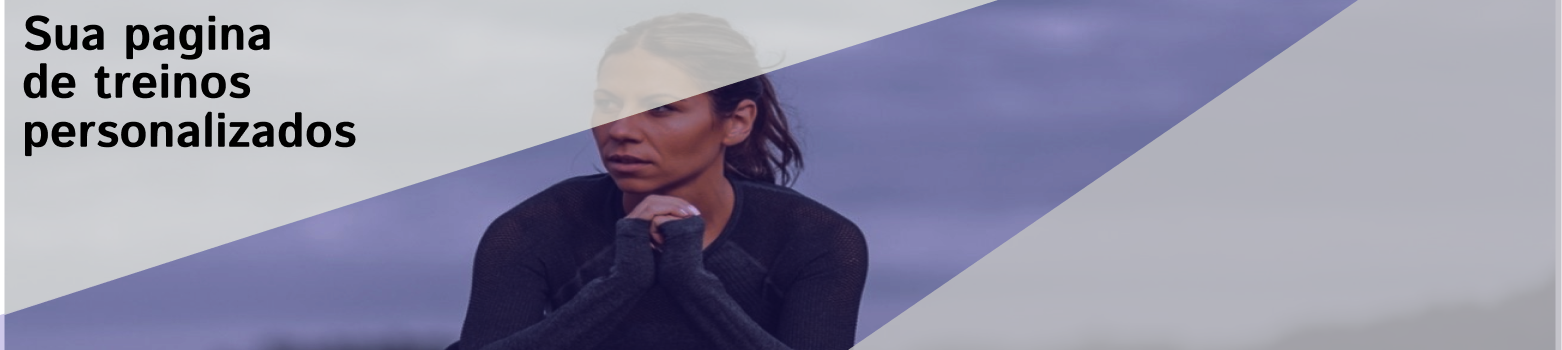
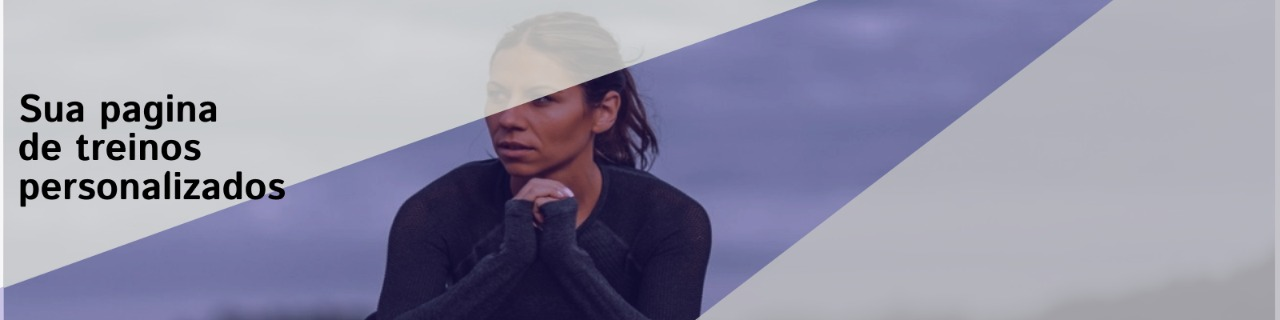
mudando visual da pagina de treinos e adicionando botao de favoritar treinos

Changed region(s): [[0.0, 0.0312, 0.25, 0.5], [0.0, 0.5312, 0.25, 0.6562]]

diff --git a/befit-app/src/components/CardExercicio/index.jsx b/befit-app/src/components/CardExercicio/index.jsx
@@ -2,9 +2,11 @@ import imagemTeste from '../../assets/images/exerciciosCover/exercioCardio.jpg'
 import style from './style.css'
 import { useState } from 'react';
 import { BrowserRouter as Router, Routes, Route, Link, NavLink, useNavigate } from 'react-router-dom'
+import likeButton from '../../assets/images/Icons/favoritoIcon.png'
+import likeButtonSelecionado from '../../assets/images/Icons/favoritoIconSelecionado.png'
+import transitions from '@material-ui/core/styles/transitions';
 
 function CardExercicio(props) {
-
     const imagem = {
         backgroundImage: `url(${props.imagem ? props.imagem : imagemTeste})`
     }
@@ -12,25 +14,50 @@ function CardExercicio(props) {
     const [nome, setNome] = useState(props.nome);
     const [descricao, setDescricao] = useState(props.descricao);
     const [criador, setAno] = useState(props.ano);
+    const [selecionado, setSelecionado] = useState();
+
 
     const navegar = useNavigate();
 
+    const imagensButton = [
+        {
+            nome: "like",
+            imagem: likeButton
+        }, {
+            nome: "like Selecionado",
+            imagem: likeButtonSelecionado
+        }
+    ]
+    let isSelecionado = true;
+    const saveClickProperty = () => {
+        setSelecionado(isSelecionado);
+        isSelecionado = !isSelecionado;
 
+
+        //colocar codigo para api.put para mudar a propriedade de treino favorito
+    }
 
     return (
         <>
 
-            <button onClick={() => navegar(`/treino/${props.id}`)}className="boxTreino">
+            <button onClick={() => navegar(`/treino/${props.id}`)} className="boxTreino">
                 <div className="imagemCoverTreino">
-                   <div style={imagem} className="image"></div>
+                    <div style={imagem} className="image"></div>
                 </div>
-                    <div className="infoTreino">
-                        <h1>{props.nome}</h1>
-                        <h2>{props.descricao}</h2>
-                    </div>
+                <div className="infoTreino">
+                    <h1>{props.nome}</h1>
+                    <h2>{props.descricao}</h2>
+                </div>
 
-                
             </button>
+            <div className="likeAction">
+                <a onClick={saveClickProperty} className="">
+                    <div className="ActionDiv">
+                        <img src={selecionado ? likeButtonSelecionado : likeButton} alt="Like button" className='likeButton' />
+                    </div>
+                </a>
+            </div>
+
         </>
 
     )

diff --git a/befit-app/src/components/modalUser/index.jsx b/befit-app/src/components/modalUser/index.jsx
@@ -4,10 +4,63 @@ import api from '../../services/api.js'
 import CardExercicio from '../CardExercicio/index'
 
 
-
 function ModalUser(props) {
+
+    const titulos = [
+        {
+            id: 1,
+            title: 'Pesquisar treinos',
+
+        },
+        {
+
+            id: 2,
+            title: 'Meus Treinos',
+
+        },
+        {
+
+            id: 3,
+            title: 'Criar Treinos',
+
+        },
+        {
+            id: 4,
+            title: 'Dietas',
+
+        }
+    ]
+
+    const pageAtual = (window.location.pathname);
+
+
+    const nomeFiltrado = titulos.filter(titulos => {
+        switch (pageAtual) {
+            case '/usuario/exercicios':
+                return titulos.title === 'Pesquisar treinos';
+
+
+            case '/usuario/meustreinos':
+                return titulos.title === 'Meus Treinos';
+
+
+            case '/usuario/criar/treinos':
+                return titulos.title === 'Criar Treinos';
+
+
+            case '/usuario/dietas':
+                return titulos.title === 'Dietas';
+
+
+            default:
+                console.log('teste');
+
+        }
+    });
+
+
+
     const [treinos, setTreinos] = useState([]);
-  
 
 
 
@@ -27,18 +80,23 @@ function ModalUser(props) {
     }
     return (
         <>
-            <div className="identificacaoModal"><h1>teste</h1>
+            <div className="identificacaoModal">{nomeFiltrado.map((item) =>
+                <h1>{item.title} </h1>
+            )}
 
             </div>
             <div className="modal">
+
                 {
                     treinos.map((treinos, index) => {
                         return (
+
                             <CardExercicio
                                 key={treinos.id}
                                 id={treinos.id} // passando id da música
                                 nome={treinos.nome}
                                 descricao={treinos.descricao}
+                                imagem={treinos.imagem}
                             />
                         );
                     })
@@ -49,5 +107,6 @@ function ModalUser(props) {
         </>
     )
 }
+
 
 export default ModalUser

diff --git a/befit-app/src/components/CardExercicio/style.css b/befit-app/src/components/CardExercicio/style.css
@@ -3,6 +3,25 @@
   width: 10px;
 }
 
+button {
+  outline: white solid 0.5px;
+  padding: 6px 8px;
+  border-radius: 3px;
+  color: rgba(0, 0, 0, 0.4);
+  font-weight: bold;
+  border: none;
+  margin: 0;
+  background: rgba(0, 0, 0, .30);
+  font-family: helvetica, arial, sans-serif;
+  font-size: 19pt;
+}
+
+button:hover {
+  background-color: rgba(6, 18, 72, 0.491);
+
+  transition: ease-in 0.2s;
+}
+
 /* Track */
 ::-webkit-scrollbar-track {
   background: #434343;
@@ -21,27 +40,33 @@
 
 .imagemCoverTreino {
   background-image: url(../../assets/images/exerciciosCover/exercioCardio.jpg);
-  height: auto;
-  width: auto;
-  max-width: 200px;
-  max-height: 200px;
+  display: flex;
+  /* height: auto; */
+  /* width: auto; */
+  /* max-width: 126px; */
+  width: 130px;
+
+  /* max-height: 126px; */
+  flex-direction: column;
 }
 
-.image{
-      /* height: auto; */
-      height: 15vh;
-      /* width: 0vw; */
-      background-size: cover;
+.image {
+  /* height: auto; */
+  height: 15vh;
+  /* width: 0vw; */
+  background-size: cover;
 }
+
 .modal {
   display: flex;
   overflow-y: auto;
-  height: 53vh;
+  height: 51vh;
   background-color: #8C8C8C;
   gap: 30px;
   flex-direction: row;
   justify-content: center;
   flex-wrap: wrap;
+  padding: 15px 0px 0px 0px;
 
 }
 
@@ -75,4 +100,43 @@
   justify-content: center;
   font-size: 25px;
 
+}
+
+
+.boxTreino {
+  height: -moz-fit-content;
+  height: fit-content;
+  width: fit-content;
+  display: flex;
+  flex-direction: column;
+  align-items: center;
+  height: fit-content;
+  width: -moz-fit-content;
+  width: fit-content;
+  display: flex;
+  flex-direction: column;
+  flex-wrap: wrap;
+  align-items: center;
+  /* height: 253px; */
+  max-width: 250px;
+  /* width: 333px; */
+  max-height: 326px;
+  gap: 30px;
+  align-content: center;
+  padding: 10px 7px 10px 7px;
+}
+
+
+.infoTreino {
+  display: flex;
+  flex-direction: column;
+  align-items: center;
+  gap: 30px;
+  color: white;
+}
+
+.likeButton {
+  margin: 0px 0px 0px -92px;
+  height: 64px;
+  position: absolute;
 }

diff --git a/befit-app/src/components/CardExercicio/Components/LikeButton.jsx b/befit-app/src/components/CardExercicio/Components/LikeButton.jsx
@@ -1,0 +1,23 @@
+import React, { useState } from 'react';
+import likeButton from '../../../assets/images/Icons/favoritoIcon.png'
+import likeButtonSelecionado from '../../../assets/images/Icons/favoritoIconSelecionado.png'
+
+const LikeButton = () => {
+    const [isClicked, setIsClicked] = useState(false);
+    const handleClick = () => {
+        if (isClicked) {
+            setIsClicked(true);
+        } else {
+            setIsClicked(false);}
+    };
+    return (
+        <>
+        <img src="{ likeButton }" alt="" />
+            <img onClick={handleClick()}
+                className={isClicked ? { likeButton } : { likeButtonSelecionado }} alt='fav button'></img>
+        </>
+
+    );
+};
+
+export default LikeButton;

diff --git a/befit-app/src/components/Footer/style.css b/befit-app/src/components/Footer/style.css
@@ -1,7 +1,7 @@
 .container-footer {
     display: flex;
     height: 25vh;
-    width: 100vw;
+    width: 100%;
     background-color: black;
     flex-direction: column;
     flex-wrap: wrap;
